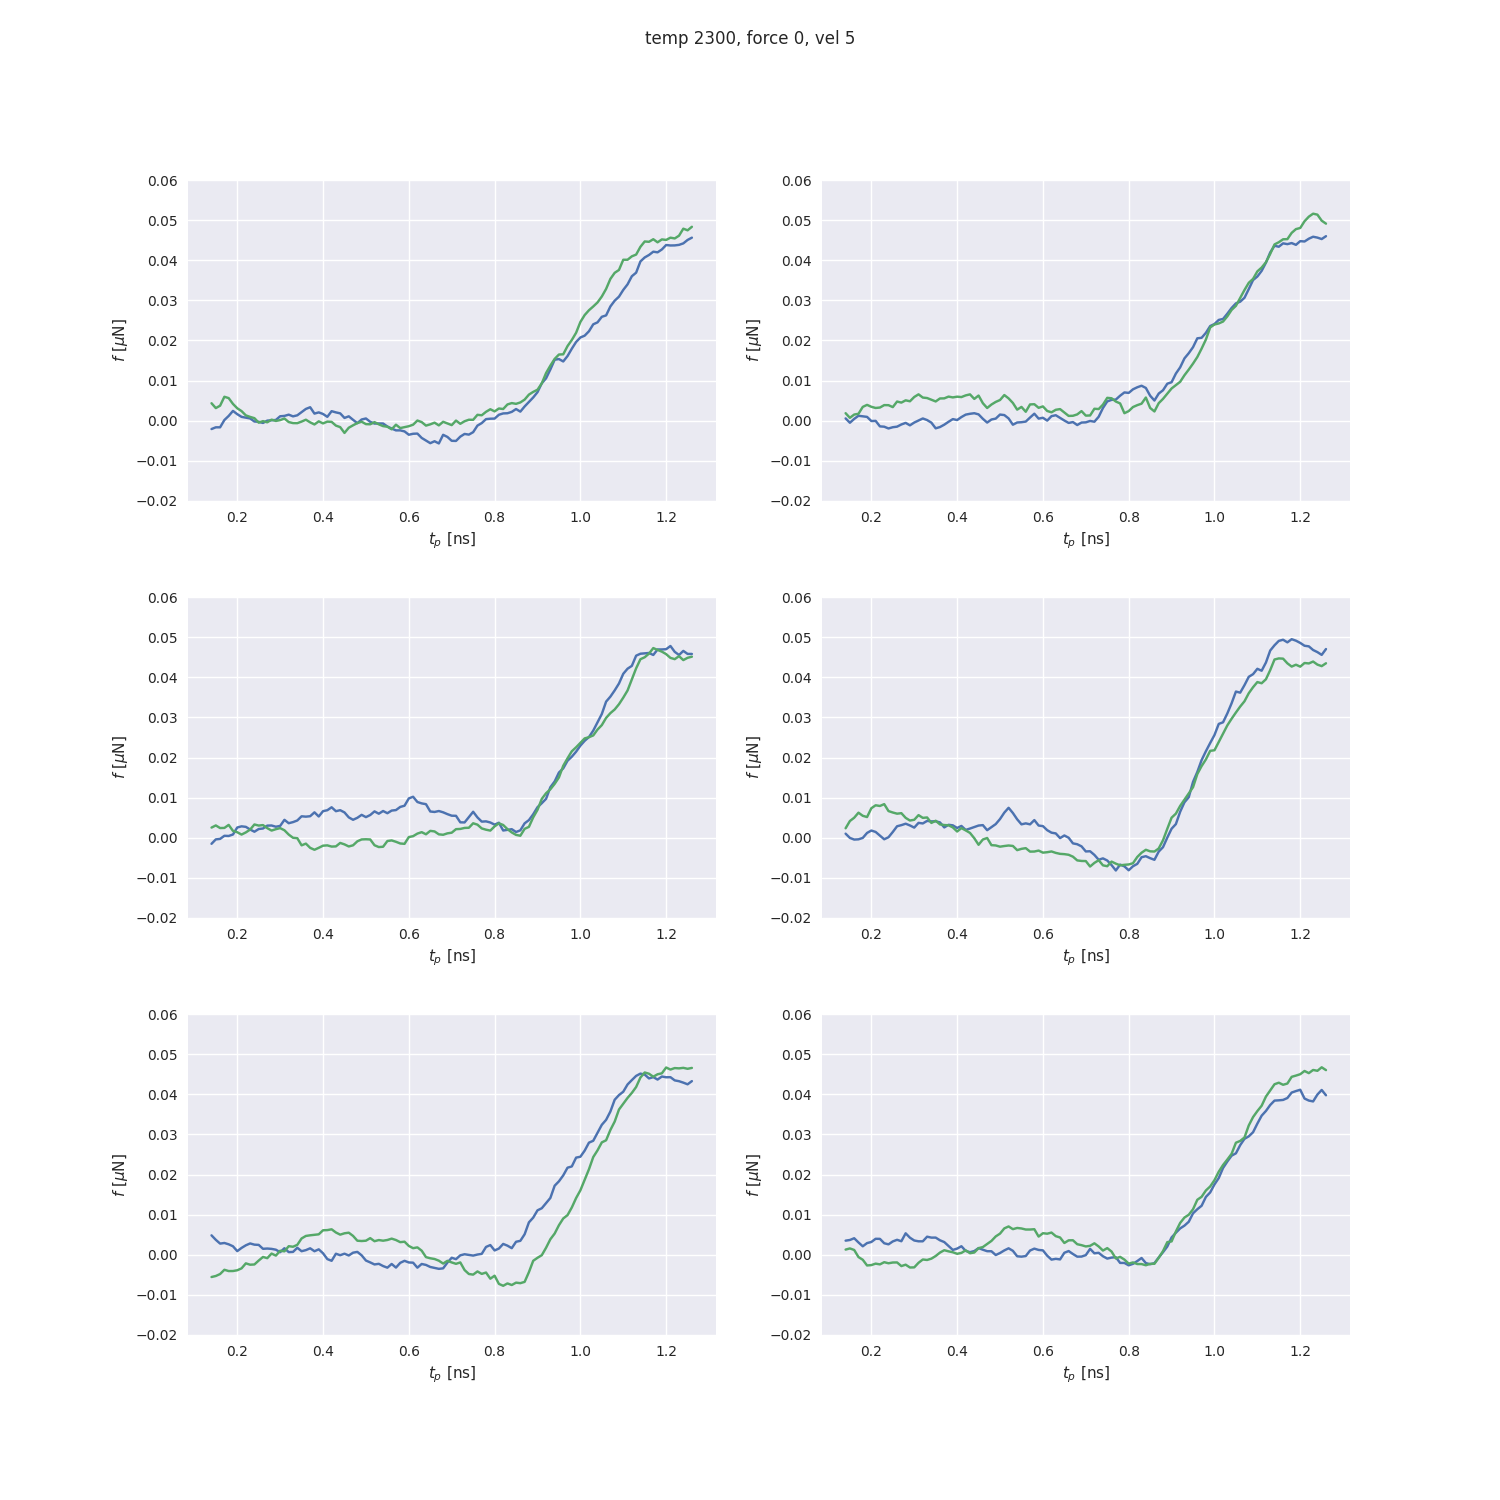
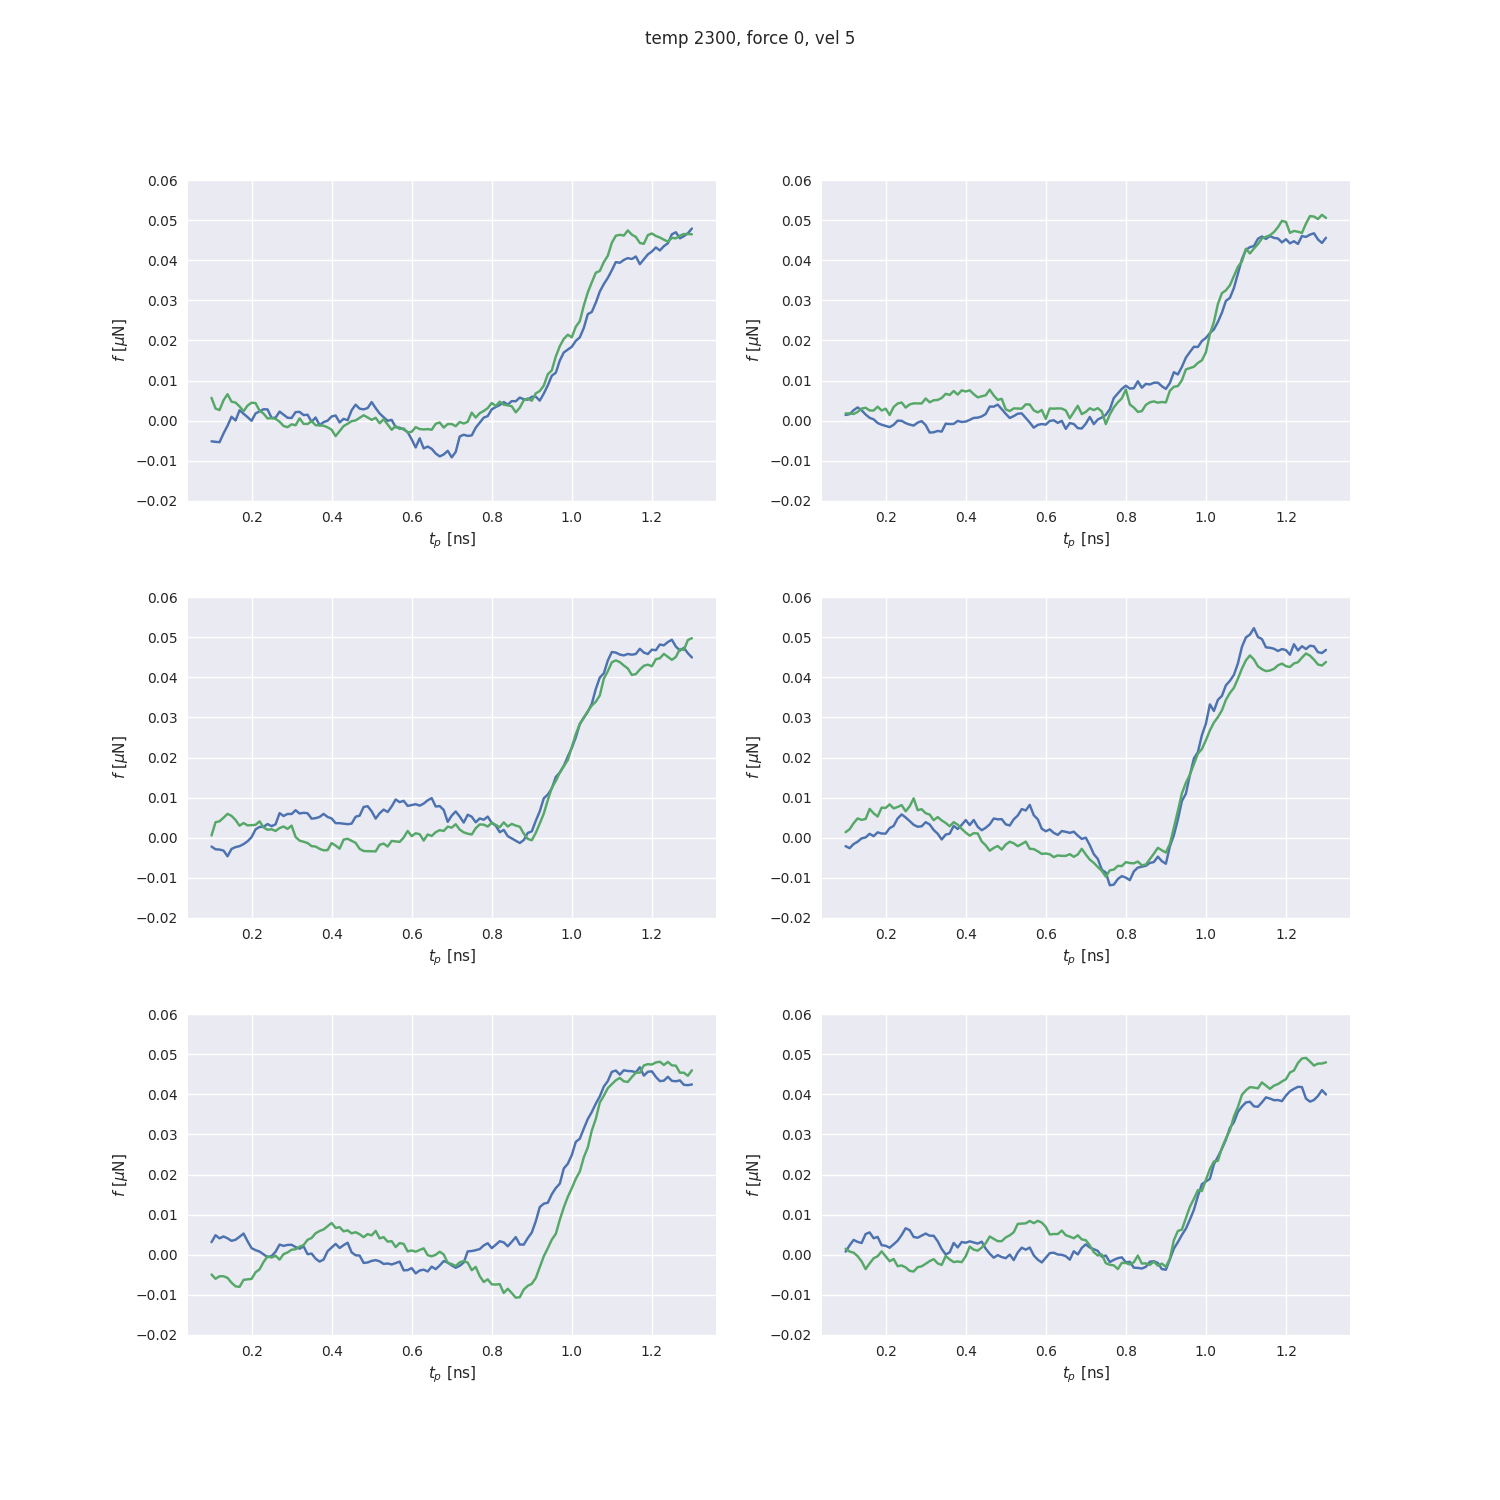
tweeekin

diff --git a/python/post/post_utils.py b/python/post/post_utils.py
@@ -201,7 +201,7 @@ def count_coord(dumpfile, outfile="coord.txt"):
 def extract_load_curves(logfile, delta=None, init_time=0, window=1,
                         outfile_load_curves="load_curves.txt",
                         outfile_max_static="max_static.txt",
-                        prominence=0.001, asperity = False, rerun = False):
+                        prominence=0.0001, asperity = False, rerun = False):
     """Extract load curves (-v_fx) from log file and
     save the load curves as text files. Also, find the maximum
     static friction across the log files and save them in one 
@@ -300,7 +300,7 @@ def extract_load_curves(logfile, delta=None, init_time=0, window=1,
     fx *= 1e6  # mN
 
     # identify first prominent peak
-    peaks, _ = find_peaks(fx[-300:], prominence=prominence)
+    peaks, _ = find_peaks(fx[-1000:], prominence=prominence)
 
     #peaks = (np.nanargmax(fx), np.nanmax(fx))
     try:

diff --git a/python/post/get_load_curves.py b/python/post/get_load_curves.py
@@ -80,7 +80,7 @@ if __name__ == '__main__':
     time = 1400
     init_time = 0
     orientation = 110
-    window = 7000
+    window = 5000
     #initnum = 0
     force = 0
     #initseed = {0:(77222, 66232, 79443), 1:(29672, 40129), 2:(64364, 32077), 3:(33829, 84296), 
